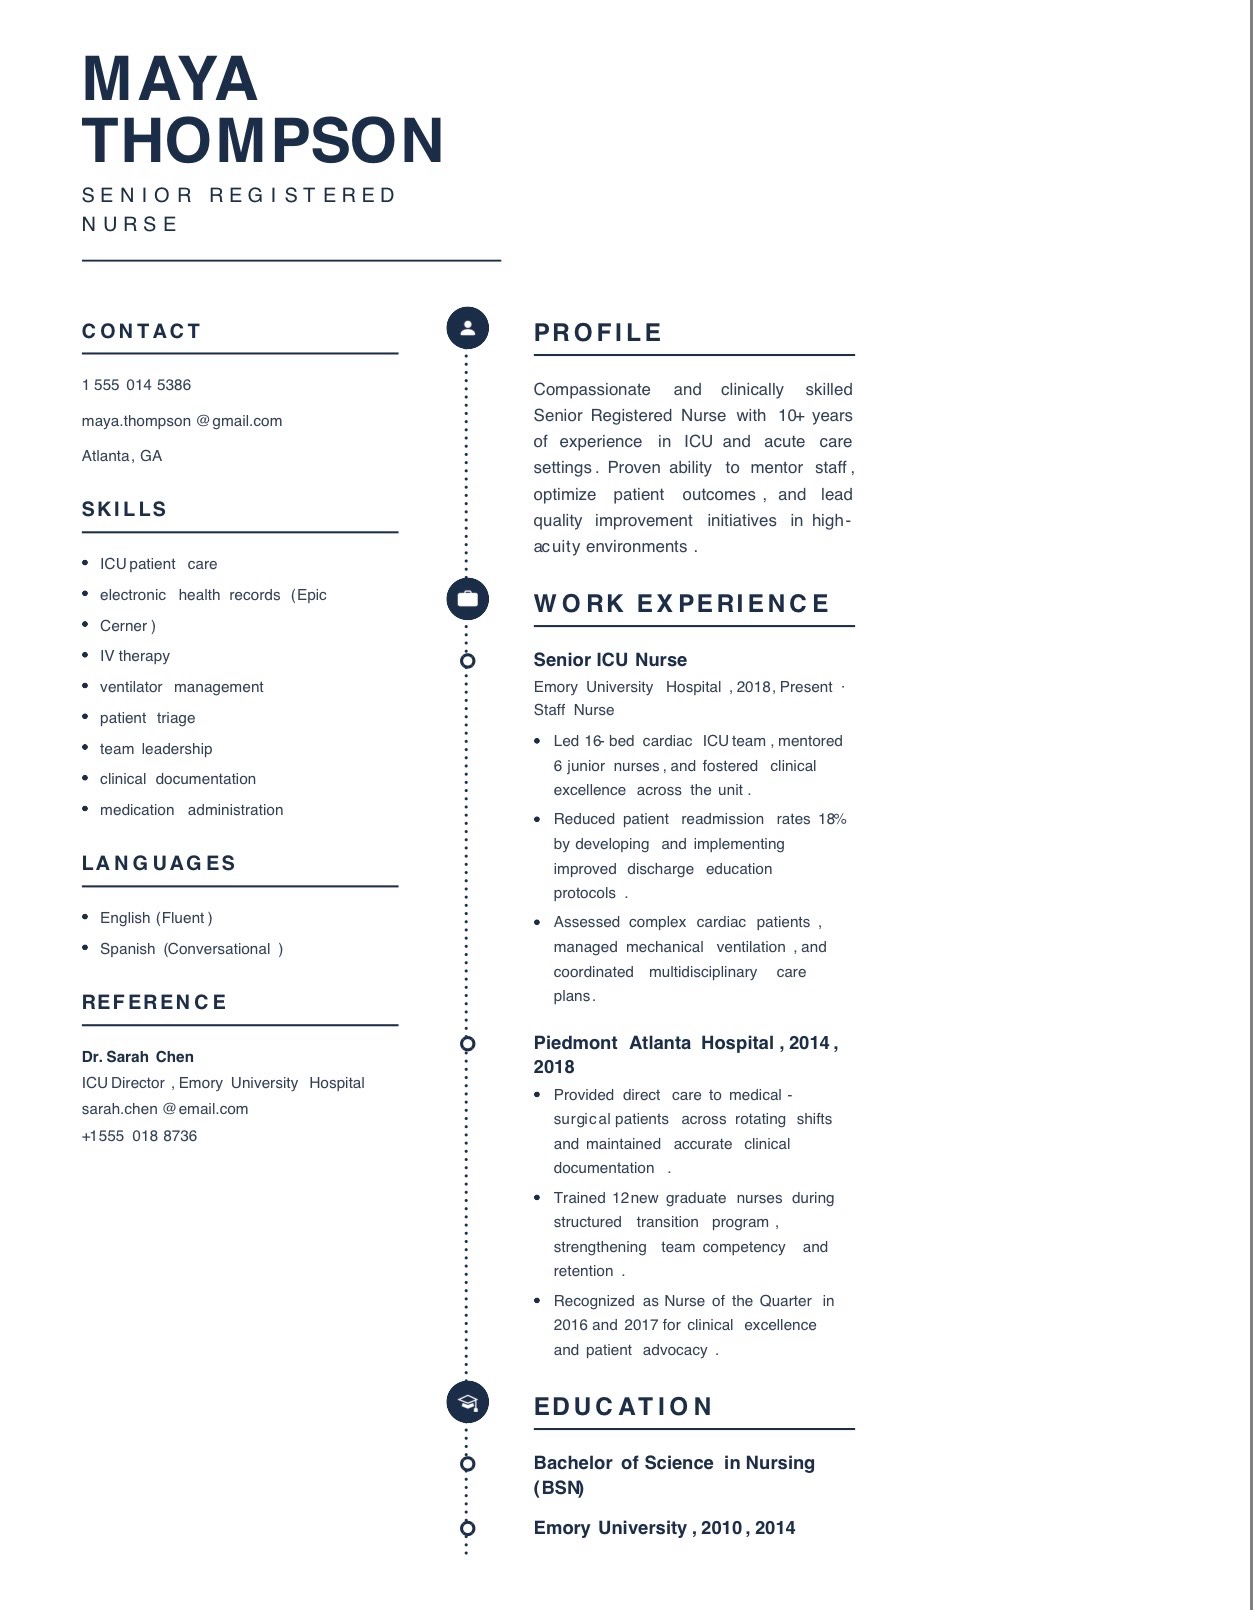
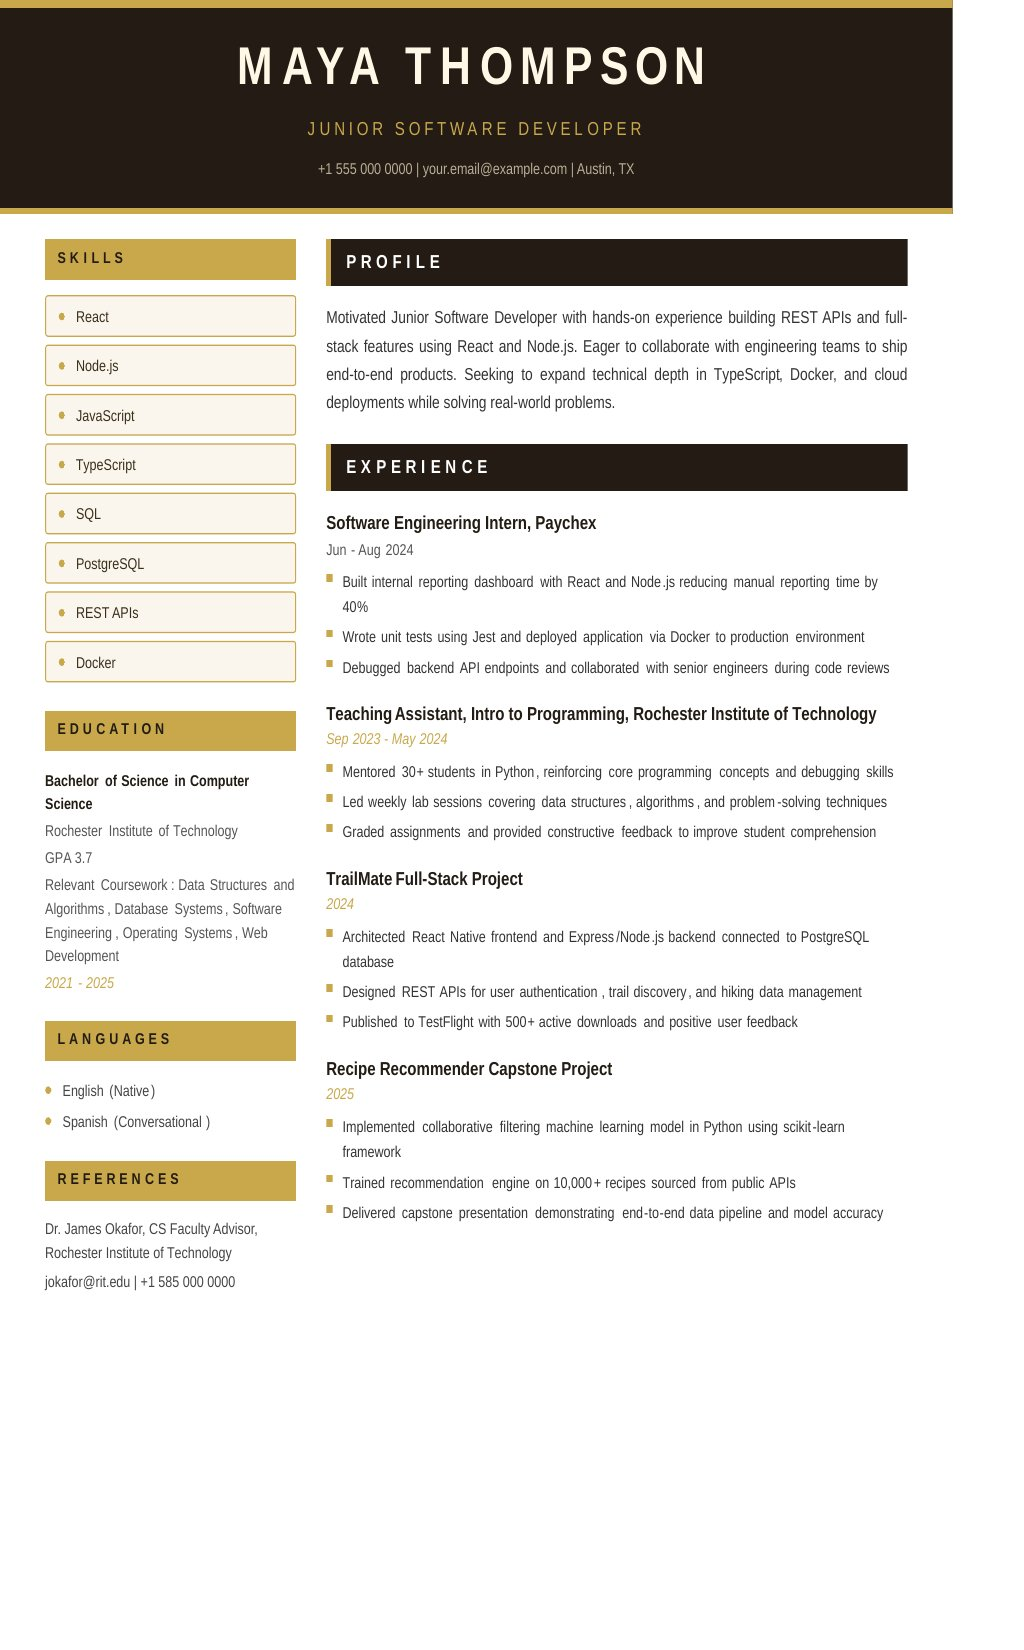
Swap landing page resume image to Elegant template for color alignment
https://claude.ai/code/session_01AayQknd3ipULk4s2VsBm8d

Changed region(s): [[0.0, 0.0, 0.9375, 0.9627], [0.3438, 0.8385, 0.4062, 0.9006]]

diff --git a/index.html b/index.html
@@ -777,7 +777,7 @@ body::before {
 <section class="feature-section">
   <div class="feature-row reverse">
     <div class="feature-image">
-      <img src="assets/feature-resume.jpg" alt="Maya Thompson resume in Élève's Modern template showing navy header with two-column layout, professional formatting, and structured sections for skills, work experience, and education" />
+      <img src="assets/feature-resume.jpg" alt="Maya Thompson resume in Élève's Elegant template featuring a dark brown header with gold accents, two-column layout, gold skill pills, and structured sections for skills, education, experience, and references" />
     </div>
     <div class="feature-text">
       <div class="feature-kicker">The Output</div>
